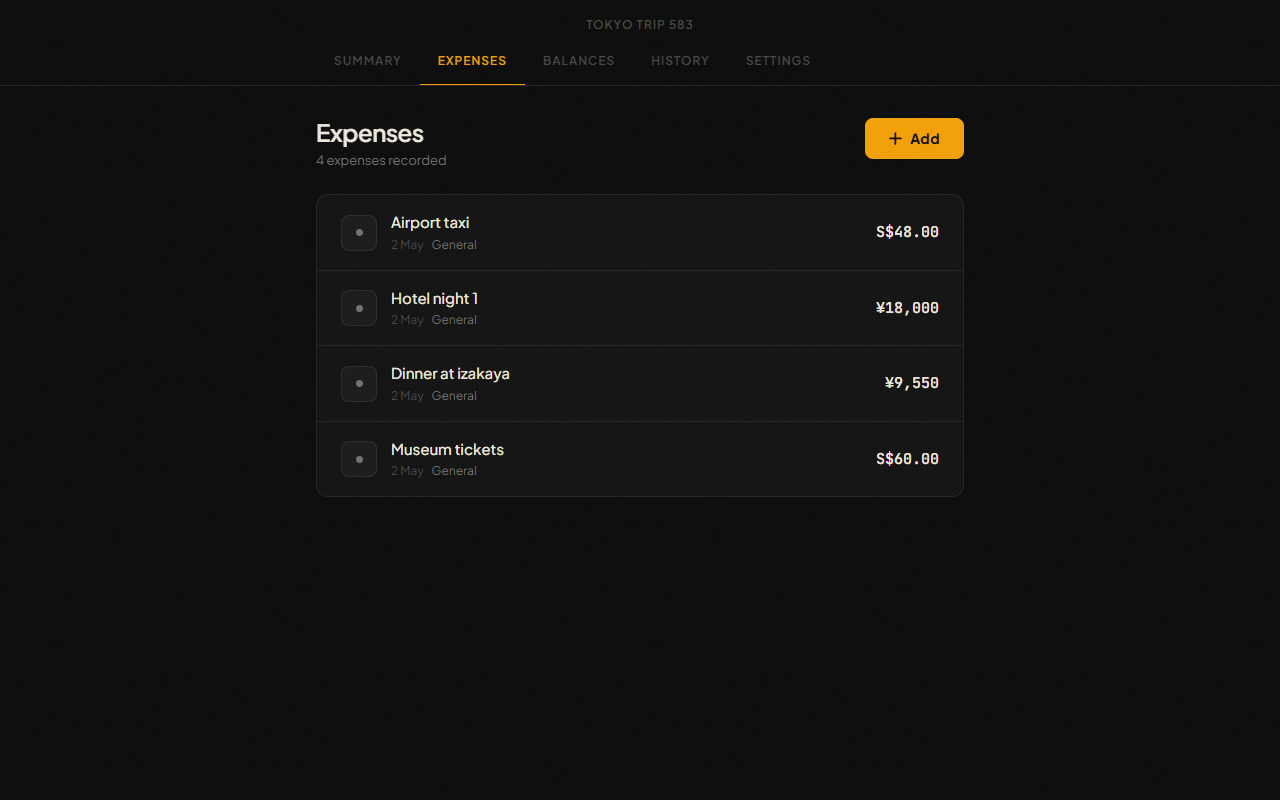
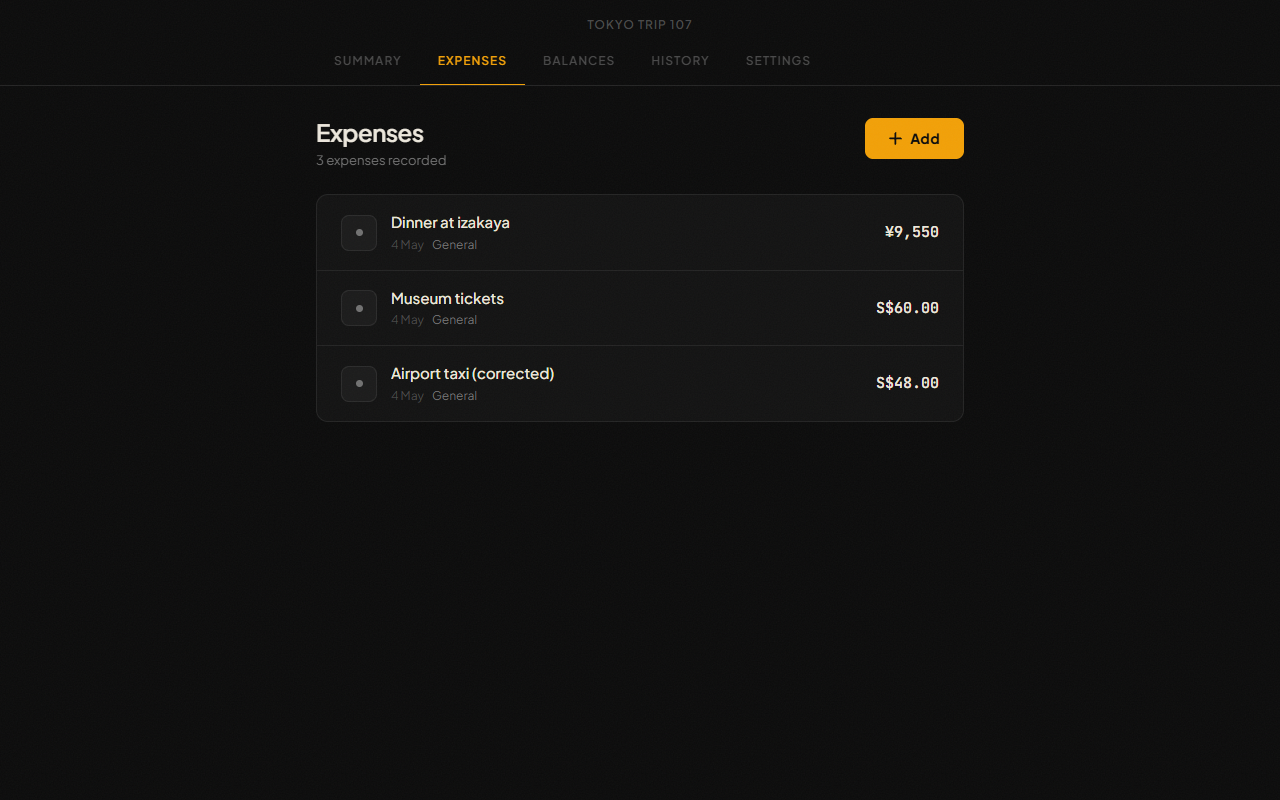
docs: refresh screenshots and CLAUDE.md for edit/delete + multi-currency
- Regenerate all screenshots from a fresh seed that includes an expense
  edit and a soft-delete, so 07-group-history demos all four event types.
- Update CLAUDE.md data model and tRPC API sections to reflect the
  current schema (group_currencies, expense_audits, expenses.currency /
  createdByUserId / deletedAt; settlements.currency) and current router
  surface (group.addMember/getGroup/getCurrencies, expense.update/
  delete/getHistory/getExpense, receipt.scan).
- Reorder DB commands to recommend the migration workflow and demote
  db:push to a hack escape hatch.

diff --git a/CLAUDE.md b/CLAUDE.md
@@ -14,12 +14,12 @@ npm run dev          # Start Next.js dev server
 npm run build        # Production build
 npm run lint         # ESLint
 
-# Database
+# Database (project uses Drizzle migrations — prefer generate/migrate over push)
 ./start-database.sh  # Start local Postgres via Docker (on Windows: run in WSL)
-npm run db:push      # Push schema changes directly to DB (dev)
-npm run db:generate  # Generate migration files
-npm run db:migrate   # Run migrations
+npm run db:generate  # Generate a new migration from schema changes
+npm run db:migrate   # Apply pending migrations (idempotent — safe to re-run)
 npm run db:studio    # Open Drizzle Studio GUI
+npm run db:push      # Push schema directly to DB without a migration (avoid except for quick local hacks)
 
 # Screenshots
 npm run screenshot   # Capture app screenshots via Puppeteer
@@ -38,16 +38,20 @@ This is a **T3 Stack** app: Next.js App Router + tRPC + Drizzle ORM + PostgreSQL
 
 ### Data model (`src/server/db/schema.ts`)
 All tables are prefixed `owe-wari_` (multi-project schema). Key relationships:
-- `groups` → has many `group_members` (via `users`)
-- `expenses` → paid by one user, split via `expense_splits` (one row per user per expense)
-- `settlements` → records a payment from `payerId` to `receiverId` to track debt repayment
+- `groups` → has `currency` (default), has many `group_members` (via `users`), has many `group_currencies` (which currencies the group accepts)
+- `expenses` → has its own `currency` (one of the group's enabled currencies), `paidByUserId`, `createdByUserId` (snapshot of paidBy at creation, never updated; used as audit actor), and a nullable `deletedAt` (soft delete). Split via `expense_splits` (one row per user per expense).
+- `settlements` → records a payment from `payerId` to `receiverId` in a specific `currency` to clear debt
+- `expense_audits` → one row per expense edit, with `actorId` (= the expense's `createdByUserId` at edit time) and `fieldsChanged` (text[])
 
 ### tRPC API (`src/server/api/`)
-Two routers exposed at `/api/trpc`:
-- `group` — create group, getUsers, getDefaultPayee, updateDefaultPayee
-- `expense` — create expense, getExpenses, getTotalExpenseCost, getBalances, settleUp
+Three routers exposed at `/api/trpc`:
+- `group` — `create`, `getGroup`, `getUsers`, `addMember`, `getCurrencies`, `getDefaultPayee`, `updateDefaultPayee`
+- `expense` — `create`, `update` (writes an `expense_audits` row when fields change), `delete` (soft delete), `getExpense`, `getExpenses` (filters out deleted), `getTotalExpenseCost`, `getBalances`, `settleUp` (accepts per-currency lines), `getHistory` (unified feed of expense / settlement / edit / delete events)
+- `receipt` — `scan` (Gemini-based receipt parsing for prefilling expense forms)
 
-`getBalances` computes net balances by summing paid expenses, owed splits, and settlement amounts per user.
+`getBalances` returns one row per `(user, currency)` pair with non-zero balance — netting paid expenses, owed splits, and settlement amounts.
+
+`getHistory` fans out three parallel selects (expenses, settlements, expense_audits) joined to `users` for actor/receiver names, merges in JS, sorts newest-first. No N+1.
 
 ### Debt simplification (`src/lib/simplify-debts.ts`)
 `simplifyDebts(balances)` runs a greedy min-cash-flow algorithm on the `Balance[]` returned by `getBalances`, reducing N debts to at most N−1 transfers. Used client-side on the balances page.
